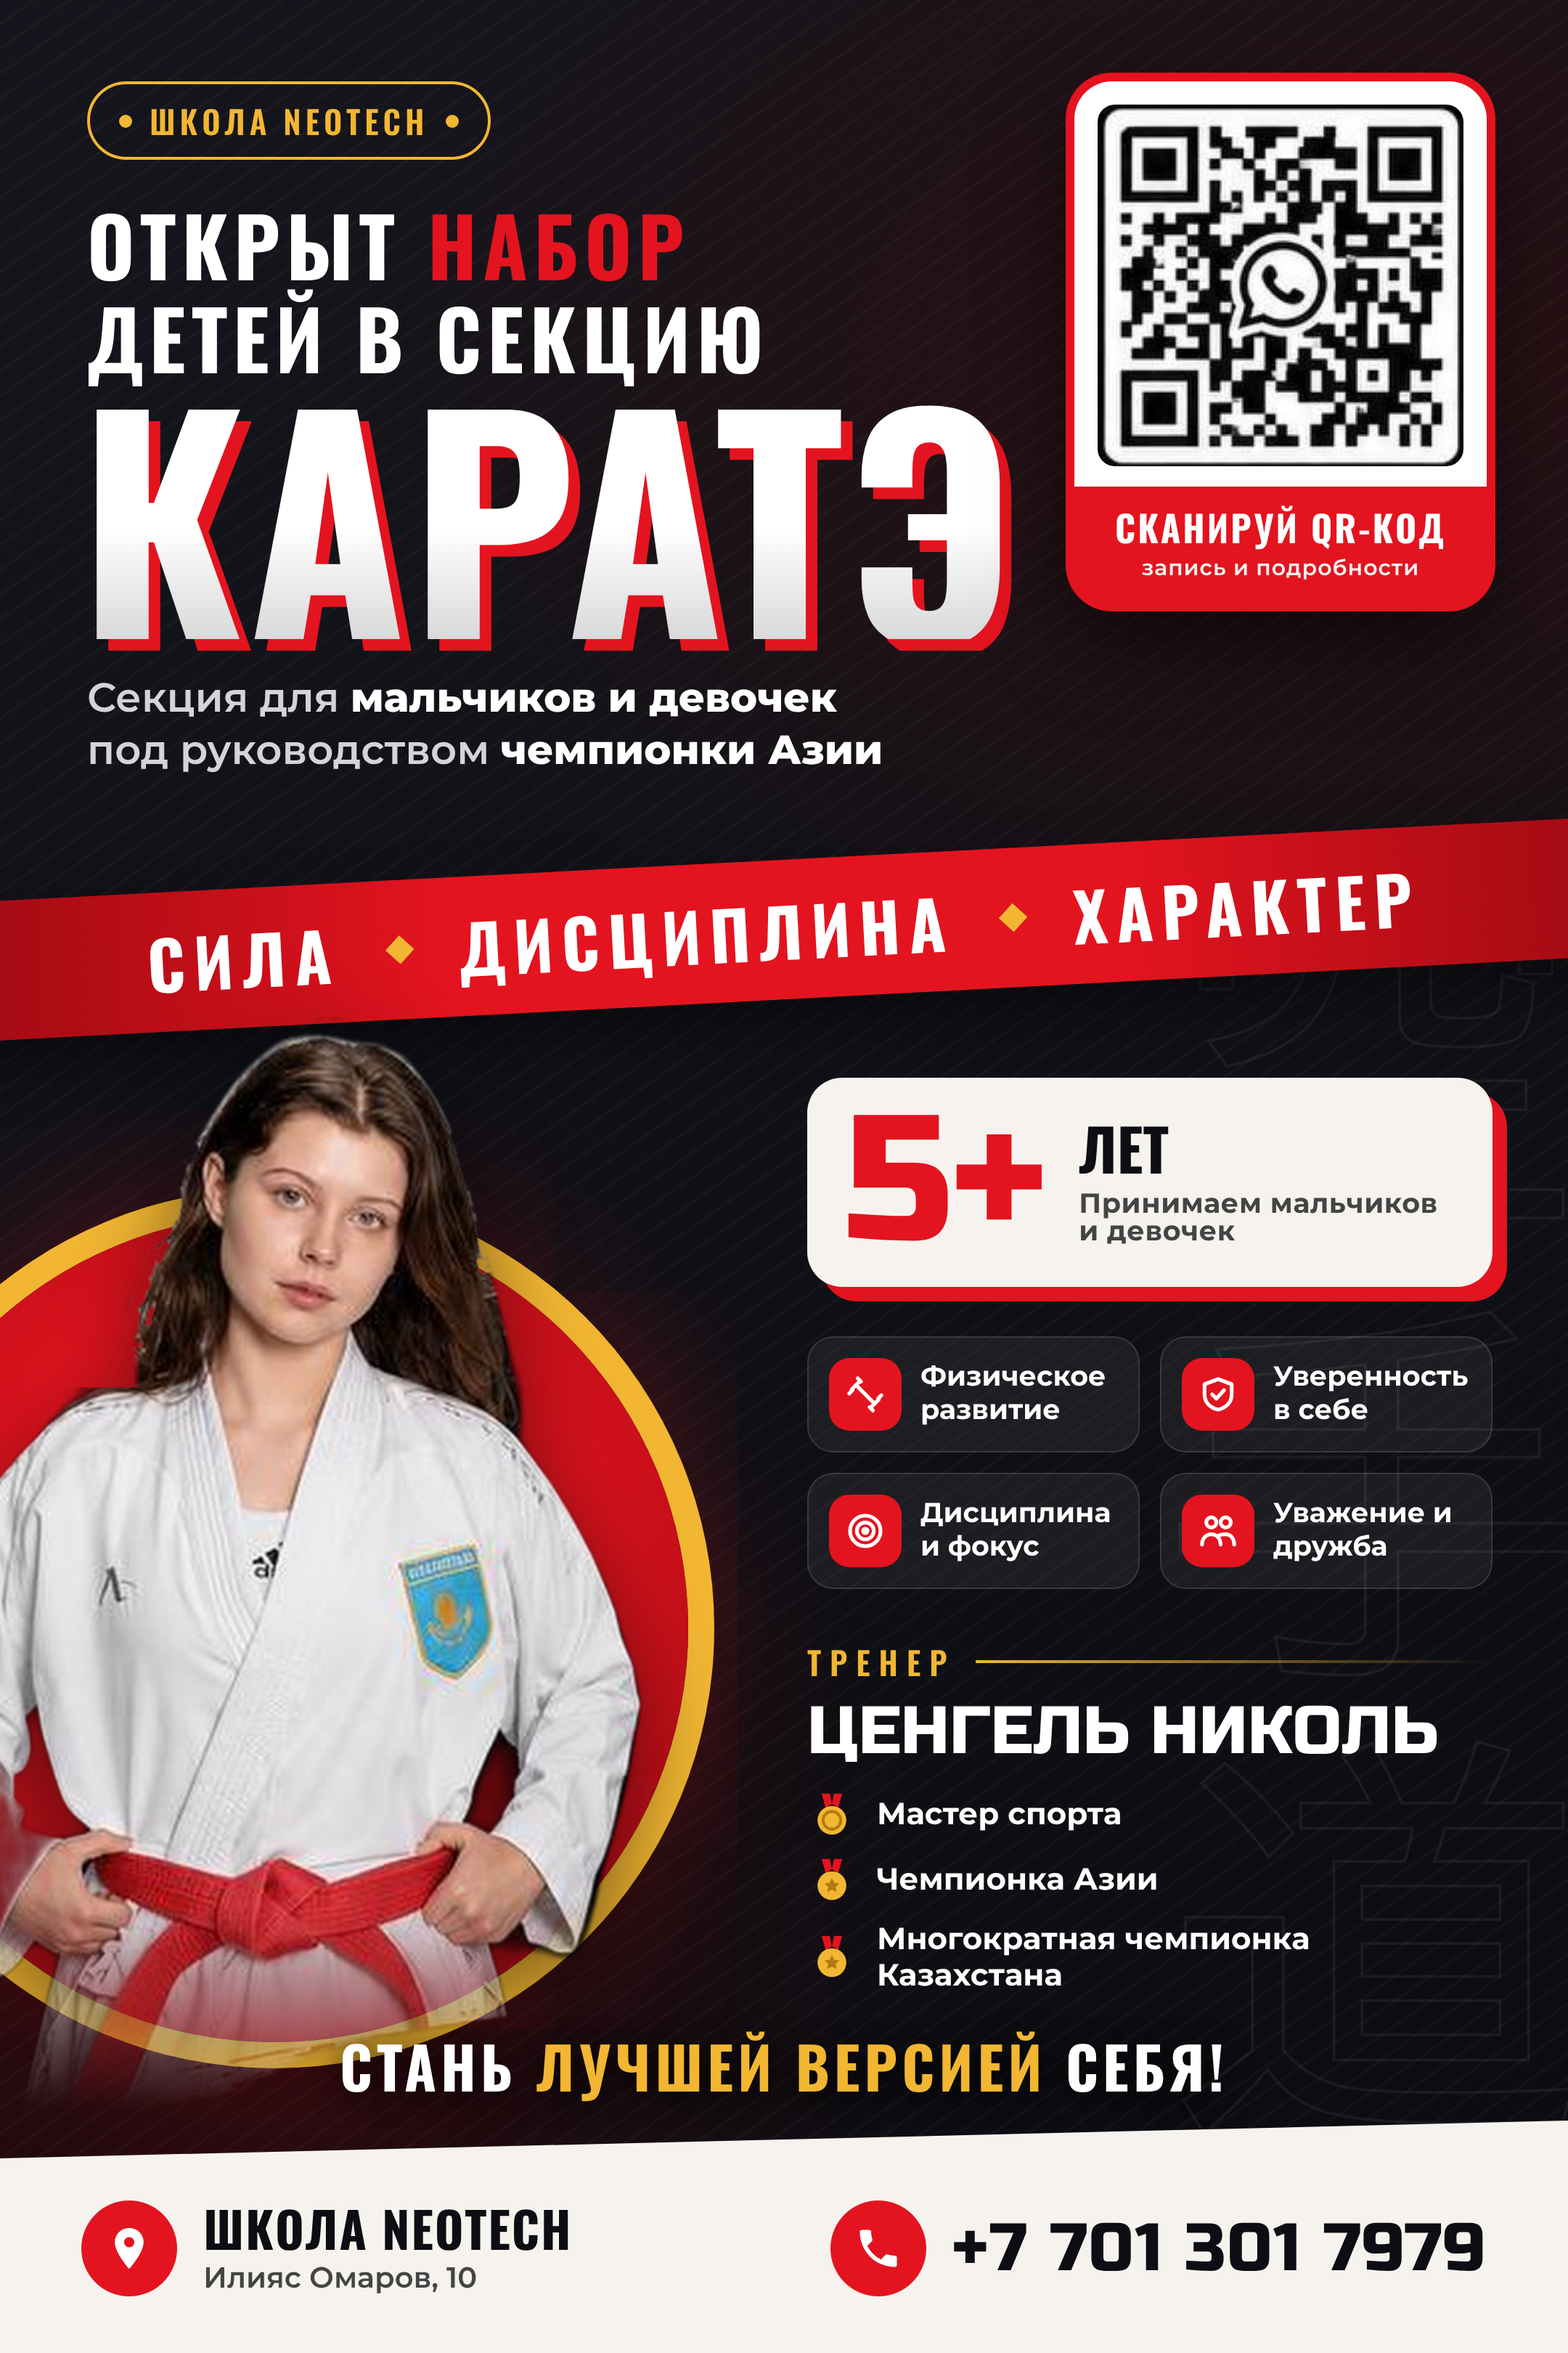
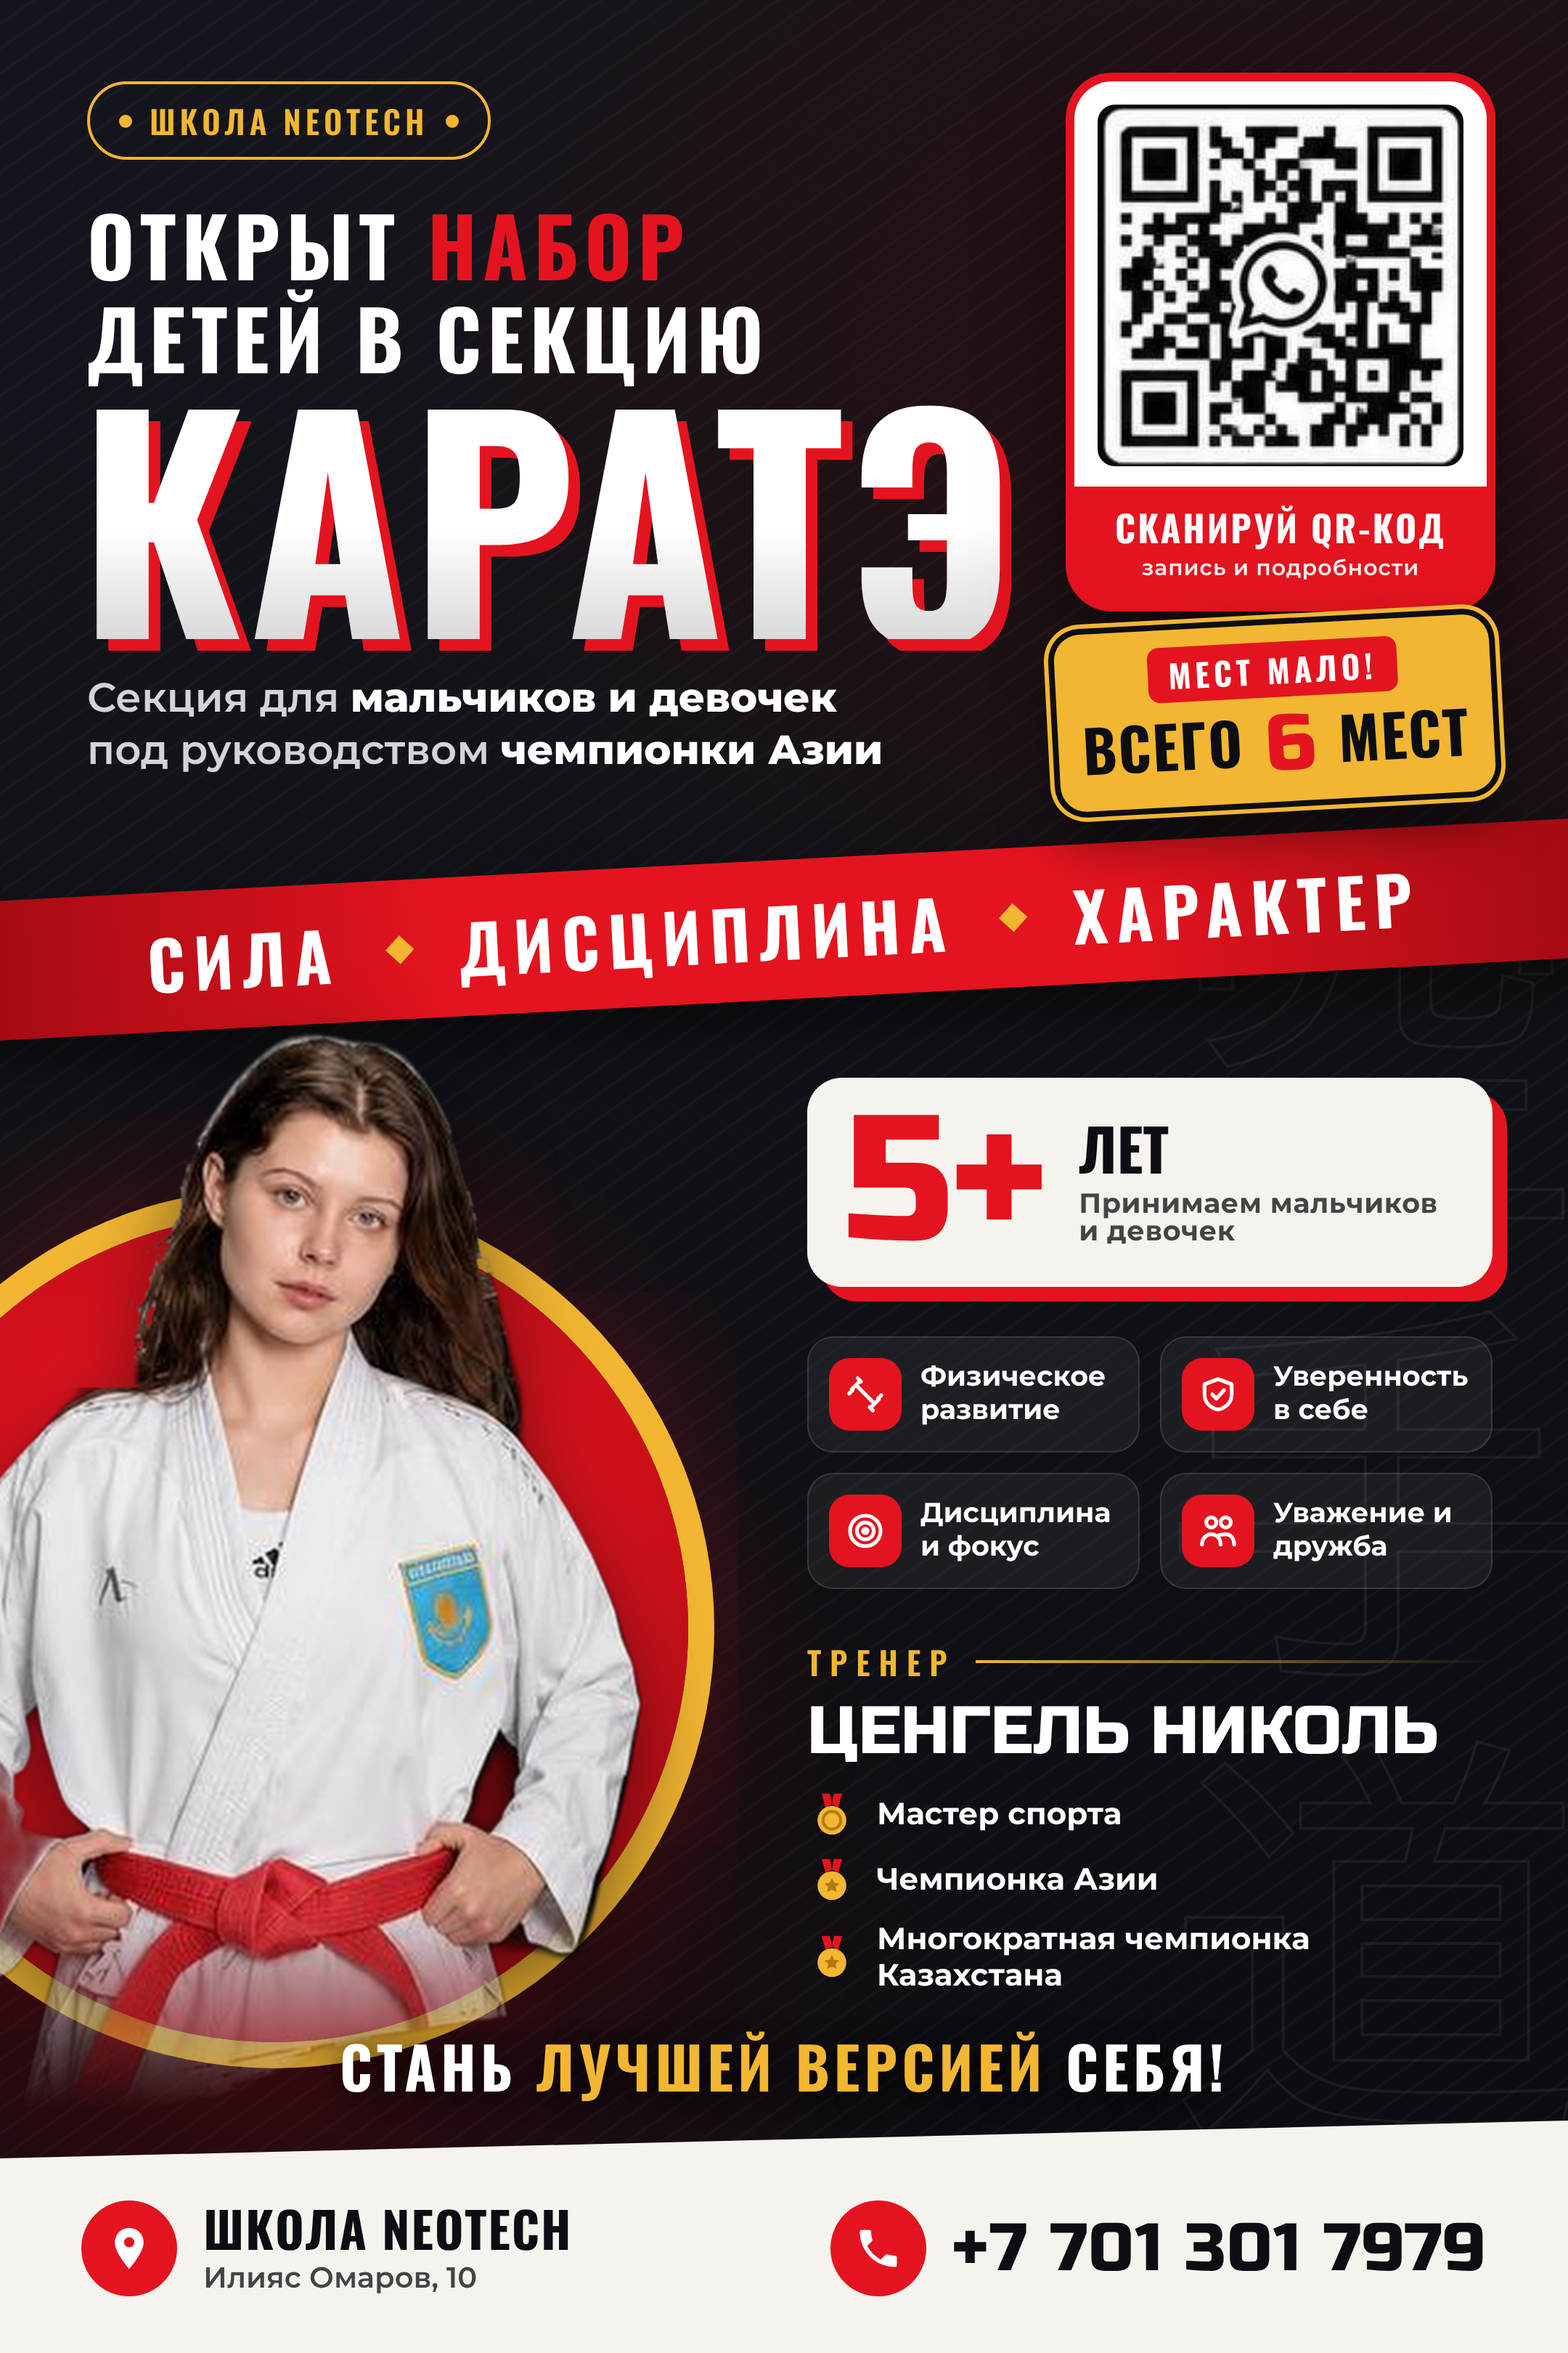
Add 'only 6 seats' badge to karate poster
Claude-Session: https://claude.ai/code/session_012thMDSmRw15qKP1TSuBbtw

Changed region(s): [[0.6514, 0.2494, 0.9616, 0.3741]]

diff --git a/karate-poster/poster.html b/karate-poster/poster.html
@@ -173,6 +173,23 @@
   .ct .t1 { font-family: "Oswald"; font-weight: 700; font-size: 34px; line-height: 1.05; letter-spacing: 1px; }
   .ct .t2 { font-weight: 600; font-size: 20px; color: #444; margin-top: 4px; }
   .phone { font-family: "Russo"; font-size: 46px; letter-spacing: 1px; }
+
+  /* ===== LIMITED SEATS BADGE ===== */
+  .seats {
+    position: absolute; right: 52px; top: 430px; z-index: 4;
+    width: 300px; padding: 12px 14px 12px; white-space: nowrap;
+    background: var(--gold); color: var(--ink);
+    border-radius: 18px; text-align: center;
+    transform: rotate(-3deg);
+    box-shadow: 0 0 0 4px var(--ink), 0 0 0 7px var(--gold), 0 18px 40px rgba(0,0,0,.55);
+  }
+  .seats .s1 {
+    display: inline-block; background: var(--red); color: #fff;
+    font-family: "Oswald"; font-weight: 700; font-size: 22px; letter-spacing: 3px;
+    padding: 3px 14px; border-radius: 8px;
+  }
+  .seats .s2 { font-family: "Oswald"; font-weight: 700; font-size: 40px; line-height: 1; margin-top: 6px; letter-spacing: 1px; text-transform: uppercase; }
+  .seats .s2 b { font-family: "Russo"; font-weight: 400; font-size: 54px; color: var(--red); vertical-align: -3px; margin: 0 4px; }
 </style>
 </head>
 <body>
@@ -192,6 +209,9 @@
     <img src="assets/qr.png" alt="QR-код">
     <div class="cap">СКАНИРУЙ QR-КОД<small>запись и подробности</small></div>
   </div>
+
+  <!-- LIMITED SEATS -->
+  <div class="seats"><span class="s1">МЕСТ МАЛО!</span><div class="s2">Всего <b>6</b> мест</div></div>
 
   <!-- BAND -->
   <div class="band">СИЛА <span class="dot"></span> ДИСЦИПЛИНА <span class="dot"></span> ХАРАКТЕР</div>
